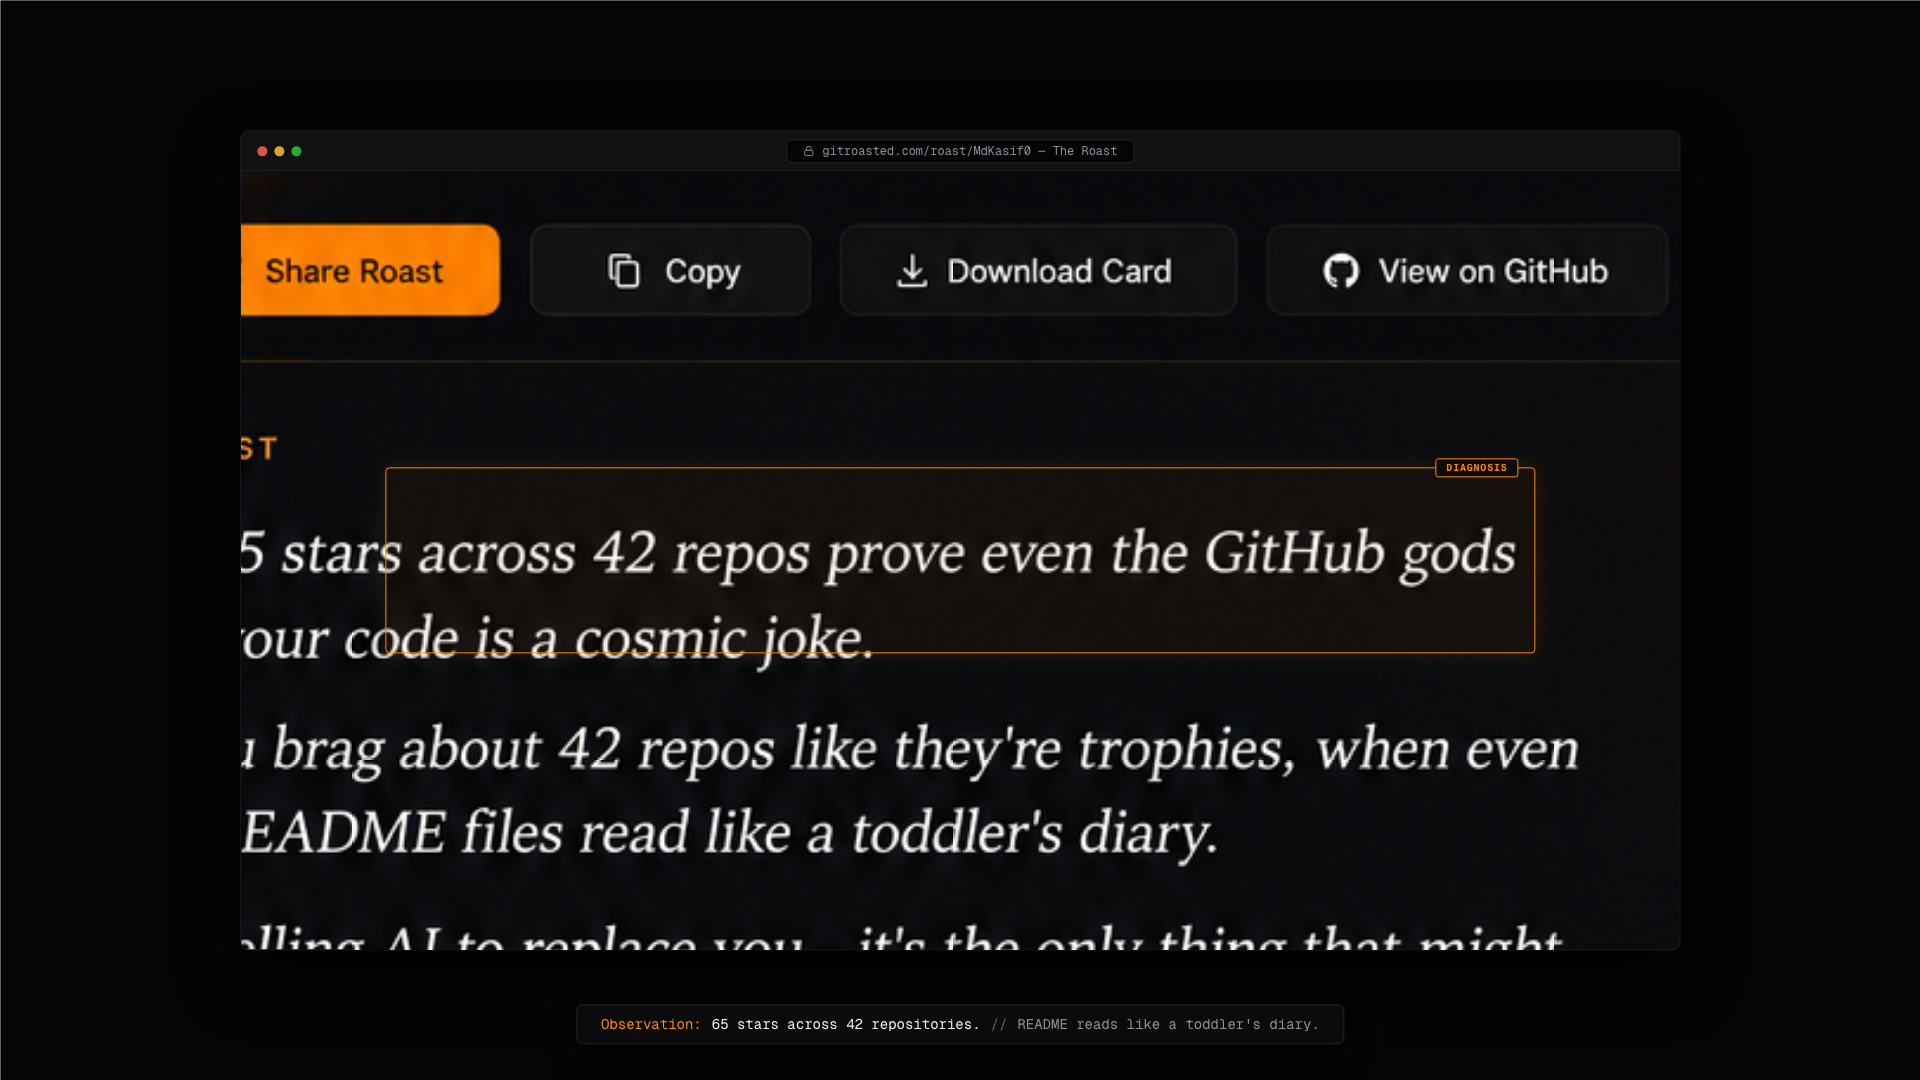
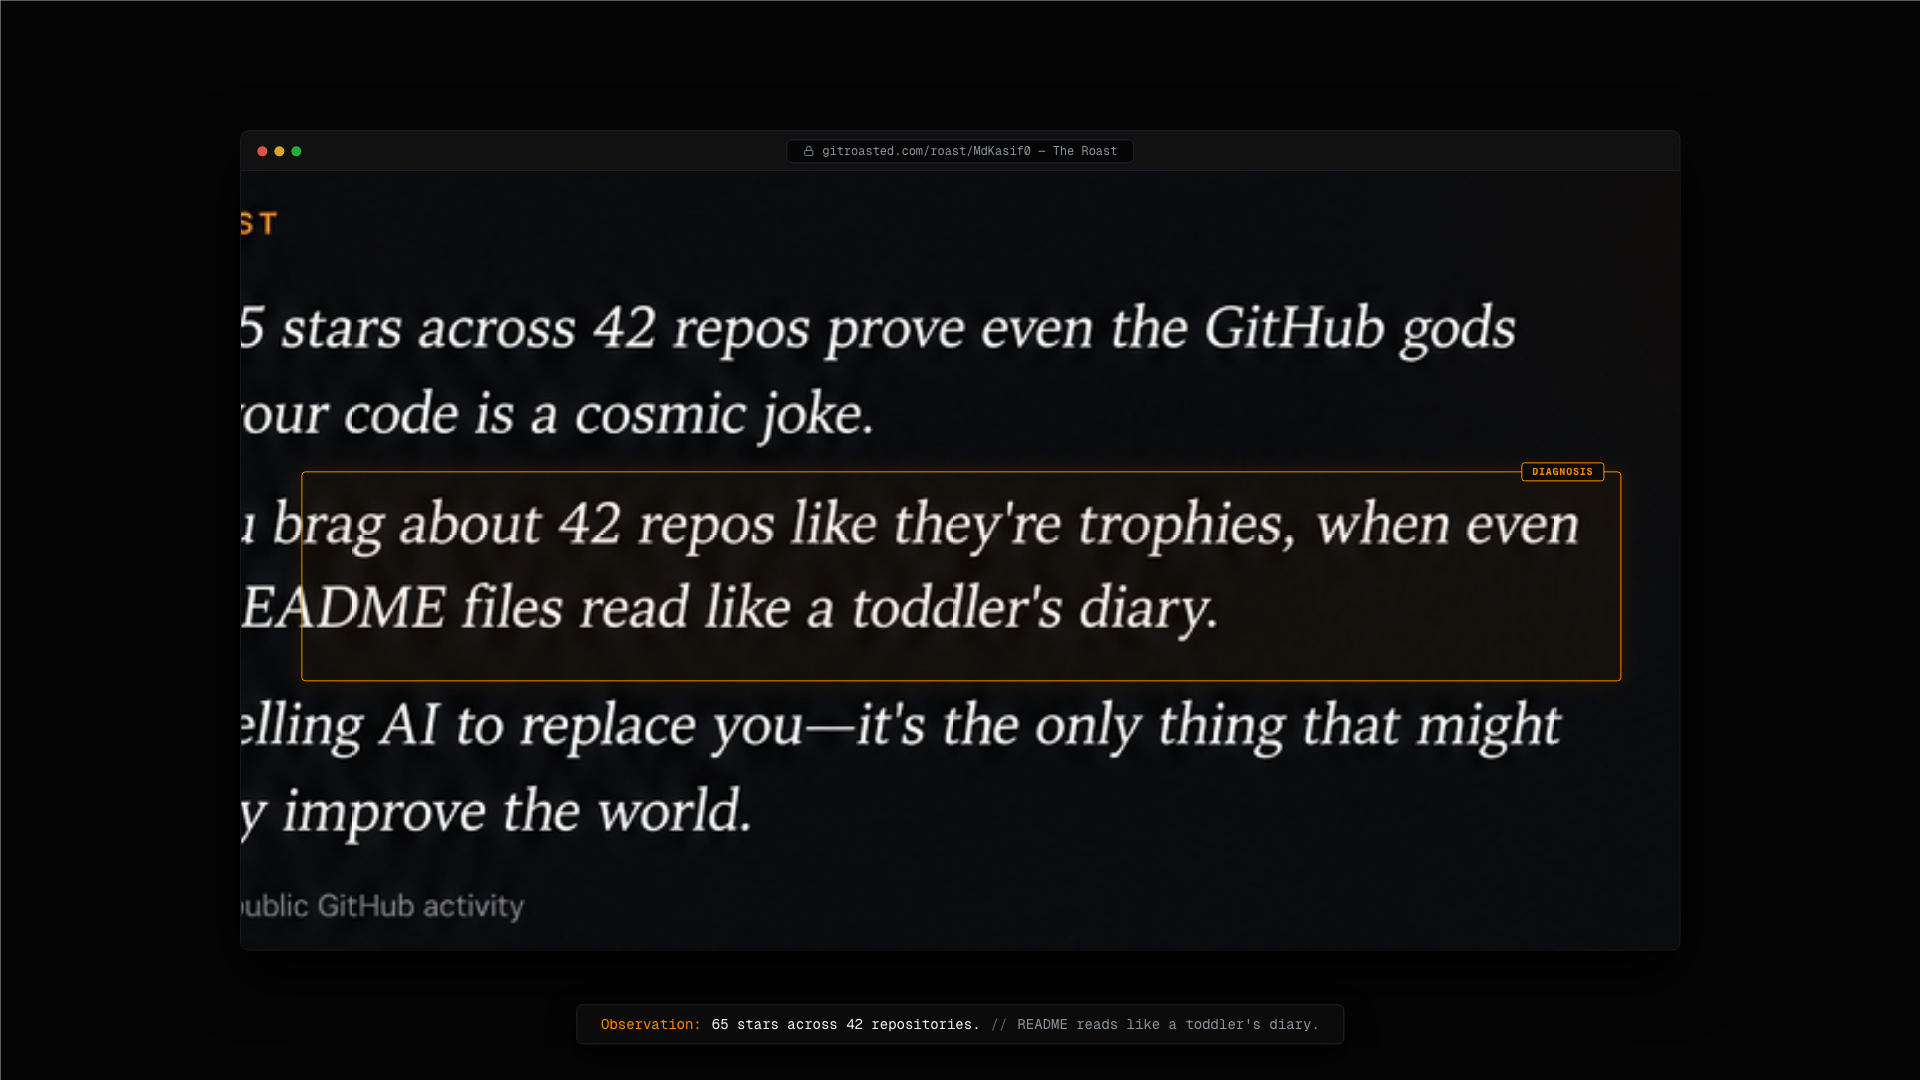
refactor: update layout positioning and dimensions in Roast scene

diff --git a/src/scenes/Roast.tsx b/src/scenes/Roast.tsx
@@ -209,10 +209,10 @@ export const Roast: React.FC = () => {
                   <div
                     style={{
                       position: 'absolute',
-                      top: 310,
+                      top: 275,
                       left: 60,
                       width: 1320,
-                      height: 200,
+                      height: 165,
                       border: '1px solid #FF8A00',
                       borderRadius: 4,
                       background: 'rgba(255, 138, 0, 0.04)',
@@ -370,10 +370,10 @@ export const Roast: React.FC = () => {
               <div
                 style={{
                   position: 'absolute',
-                  top: '38%',
-                  left: '10%',
-                  width: '80%',
-                  height: '24%',
+                  top: 300,
+                  left: 60,
+                  width: 1320,
+                  height: 210,
                   border: '1px solid #FF8A00',
                   borderRadius: 4,
                   background: 'rgba(255, 138, 0, 0.04)',
